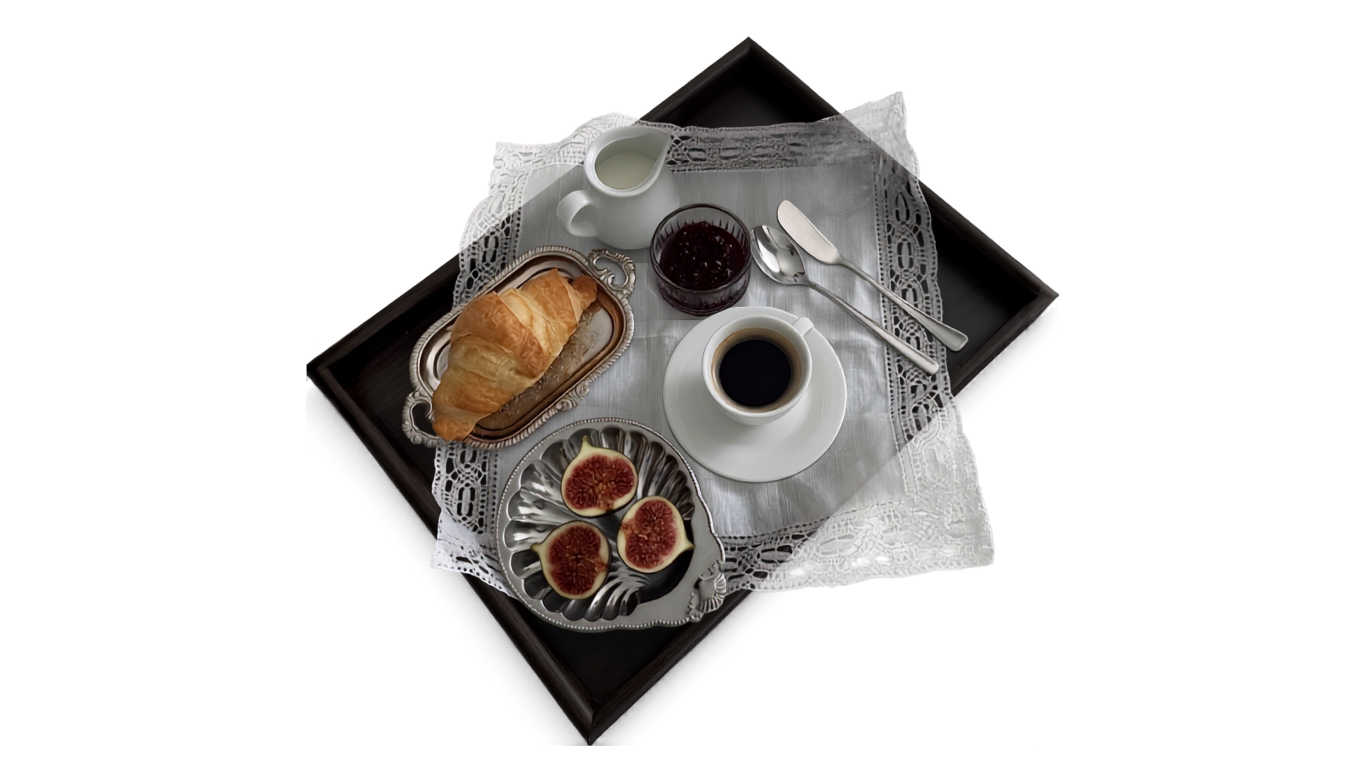
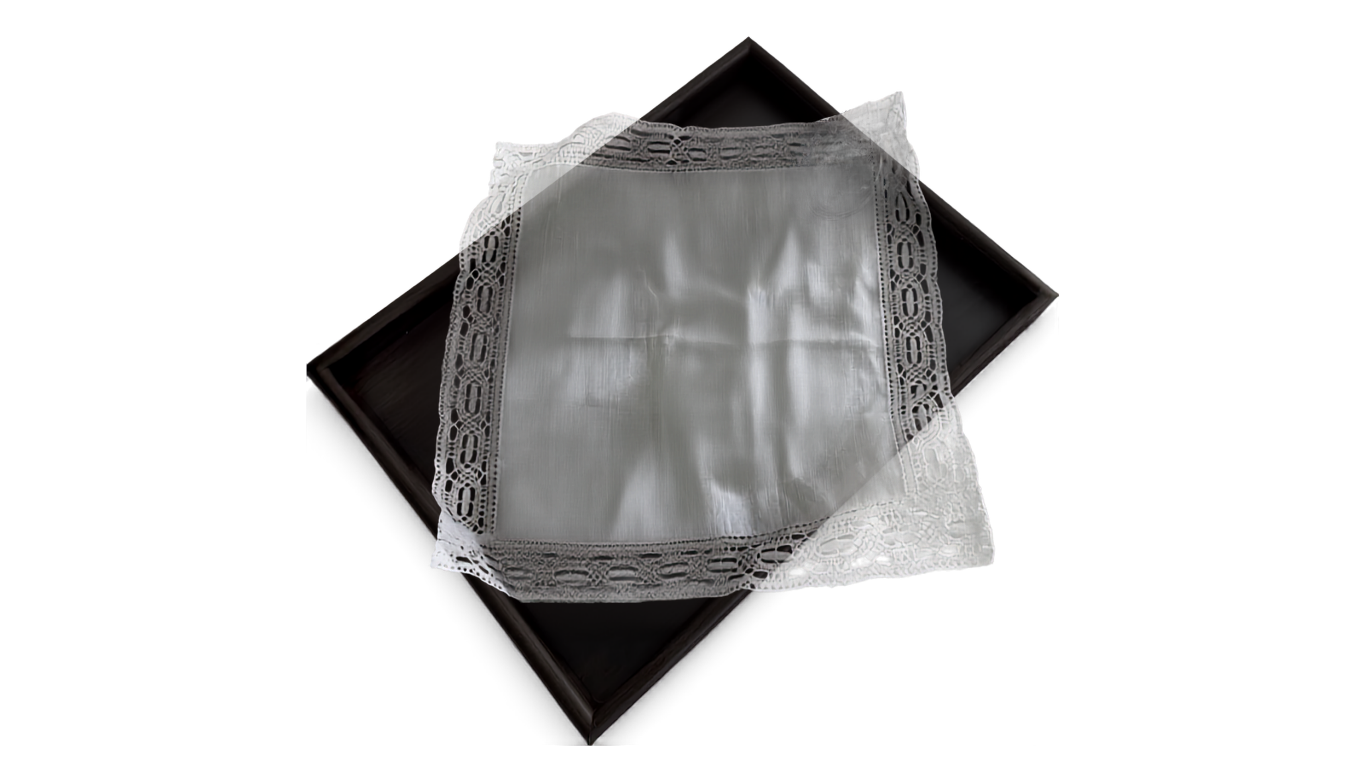
luxurious script for work titles, fix tray positions, new tray-bg

Changed region(s): [[0.2767, 0.1562, 0.7072, 0.8438]]

diff --git a/app/page.tsx b/app/page.tsx
@@ -475,7 +475,7 @@ function DualHeading({ serif, script, size = "section" }: { serif: string; scrip
       </span>
       <span
         style={{
-          fontFamily: "var(--font-pinyon)",
+          fontFamily: "var(--font-luxurious)",
           fontSize: scriptSize,
           fontWeight: "normal",
           color: "#f5f0f0",
@@ -571,13 +571,13 @@ function TrayNav() {
           style={{ position: "absolute", inset: 0, width: "100%", height: "100%", objectFit: "contain" }}
         />
 
-        {/* Croissant — left-center of tray */}
+        {/* Croissant — left side of tray, mid-height */}
         <TrayItem
           href="#youtube-integrations"
           src="/tray-croissant.png"
           alt="YouTube Integrations"
           label="youtube integrations"
-          style={{ left: "18%", top: "38%", zIndex: 2 }}
+          style={{ left: "14%", top: "36%", zIndex: 2 }}
         />
 
         {/* Figs — lower center of tray */}
@@ -586,16 +586,16 @@ function TrayNav() {
           src="/tray-figs.png"
           alt="Fashion & Fit Checks"
           label="fashion / fit checks"
-          style={{ left: "33%", top: "57%", zIndex: 2 }}
+          style={{ left: "30%", top: "58%", zIndex: 2 }}
         />
 
-        {/* Coffee — center of tray */}
+        {/* Coffee — center-right of tray */}
         <TrayItem
           href="#video-editing"
           src="/tray-coffee.png"
           alt="Video Editing"
           label="video editing"
-          style={{ left: "48%", top: "40%", zIndex: 2 }}
+          style={{ left: "50%", top: "40%", zIndex: 2 }}
         />
 
         {/* Cream + Jam — upper right, decorative */}
@@ -603,7 +603,7 @@ function TrayNav() {
           src="/tray-cream-jam.png"
           alt="Decorative"
           decorative
-          style={{ left: "55%", top: "18%", zIndex: 2 }}
+          style={{ left: "56%", top: "14%", zIndex: 2 }}
         />
       </div>
     </div>

diff --git a/app/layout.tsx b/app/layout.tsx
@@ -1,5 +1,5 @@
 import type { Metadata } from "next";
-import { Inter, Cormorant_Garamond, Pinyon_Script, Instrument_Serif } from "next/font/google";
+import { Inter, Cormorant_Garamond, Pinyon_Script, Instrument_Serif, Luxurious_Script } from "next/font/google";
 import "./globals.css";
 
 const inter = Inter({
@@ -20,6 +20,12 @@ const pinyon = Pinyon_Script({
   variable: "--font-pinyon",
 });
 
+const luxuriousScript = Luxurious_Script({
+  subsets: ["latin"],
+  weight: ["400"],
+  variable: "--font-luxurious",
+});
+
 const instrumentSerif = Instrument_Serif({
   subsets: ["latin"],
   weight: ["400"],
@@ -38,7 +44,7 @@ export default function RootLayout({
 }) {
   return (
     <html lang="en" className="scroll-smooth">
-      <body className={`${inter.variable} ${cormorant.variable} ${pinyon.variable} ${instrumentSerif.variable} bg-bg text-text-primary antialiased`}>
+      <body className={`${inter.variable} ${cormorant.variable} ${pinyon.variable} ${instrumentSerif.variable} ${luxuriousScript.variable} bg-bg text-text-primary antialiased`}>
         {children}
       </body>
     </html>